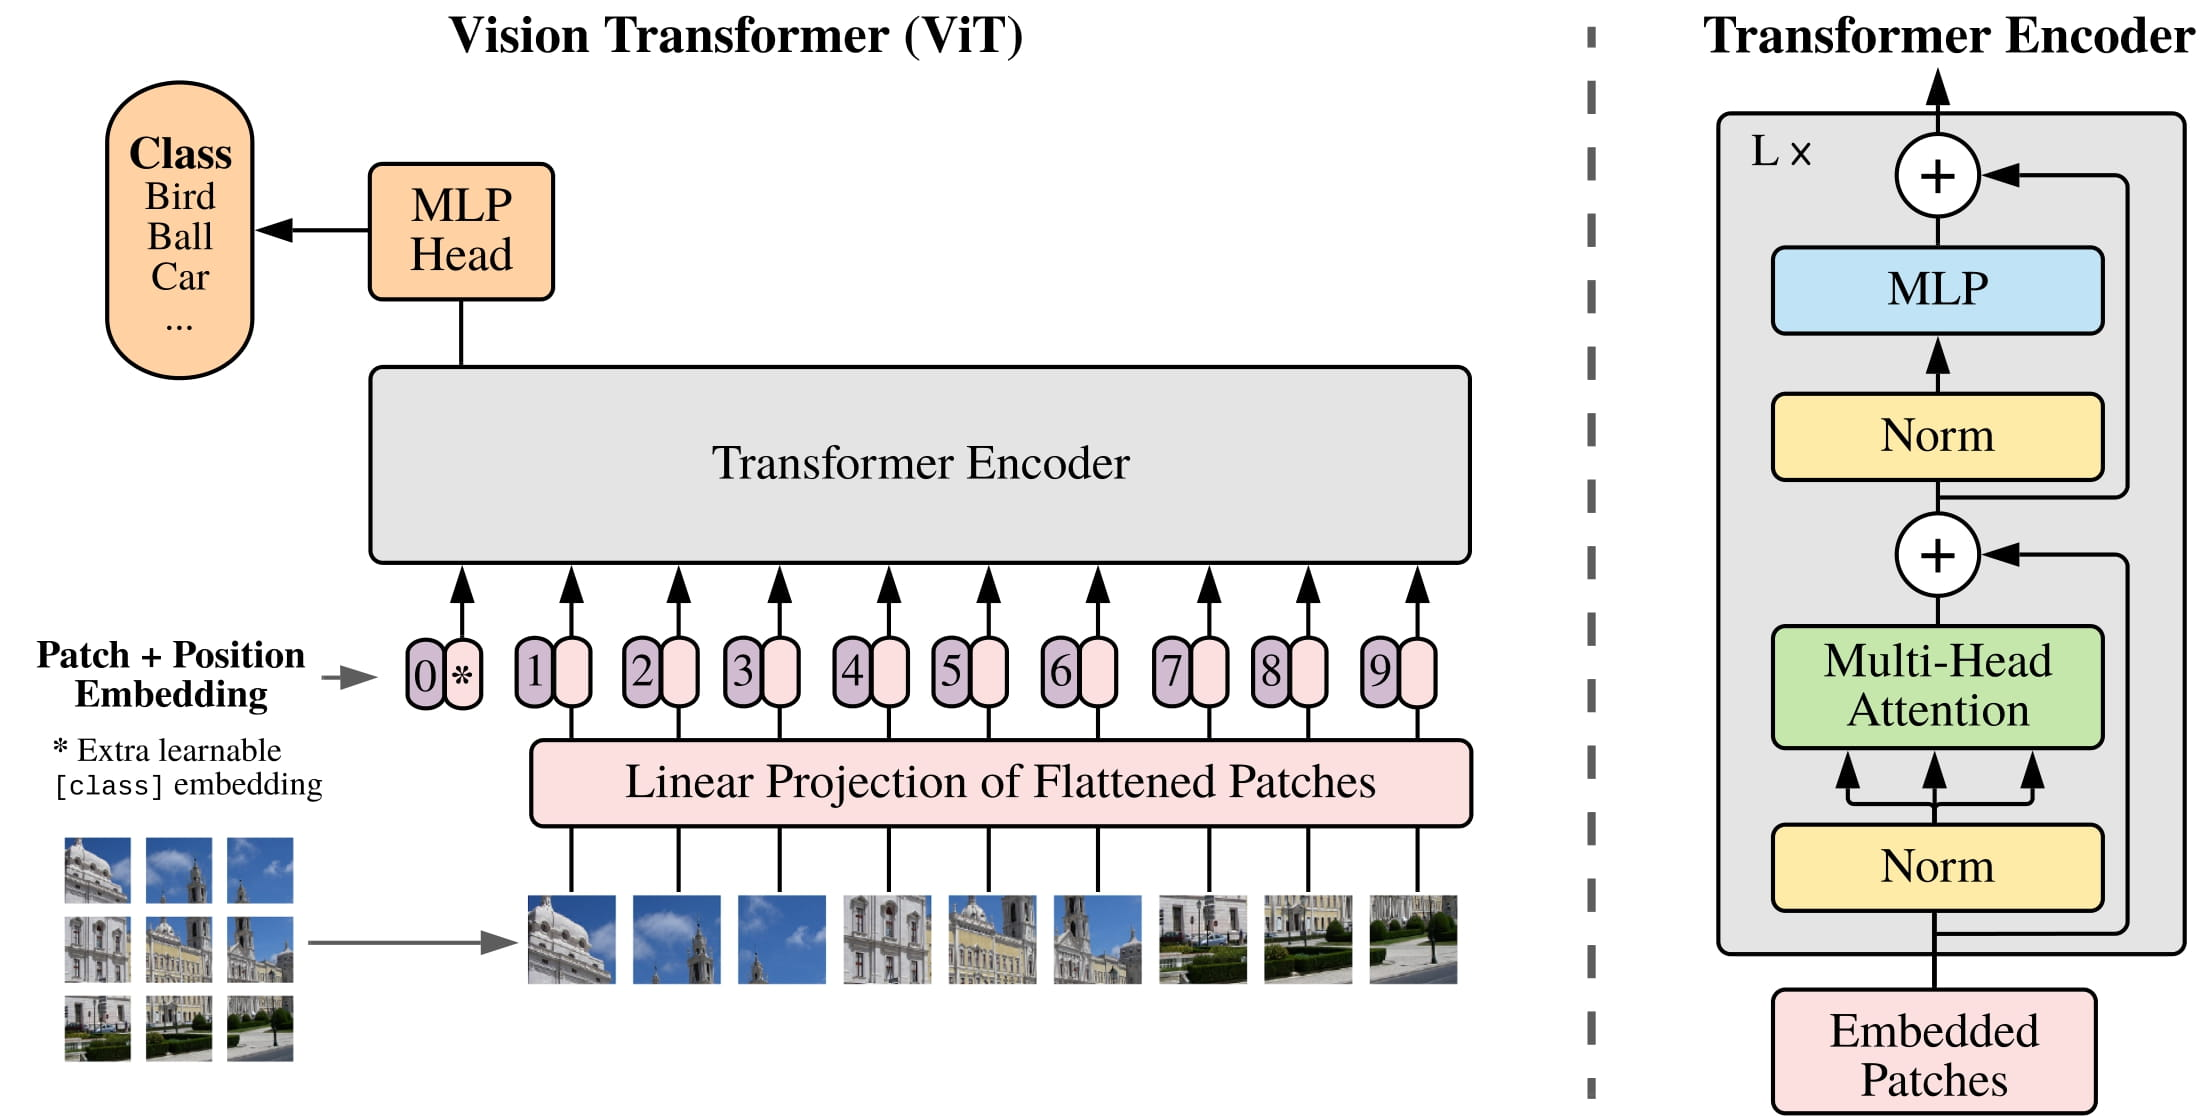
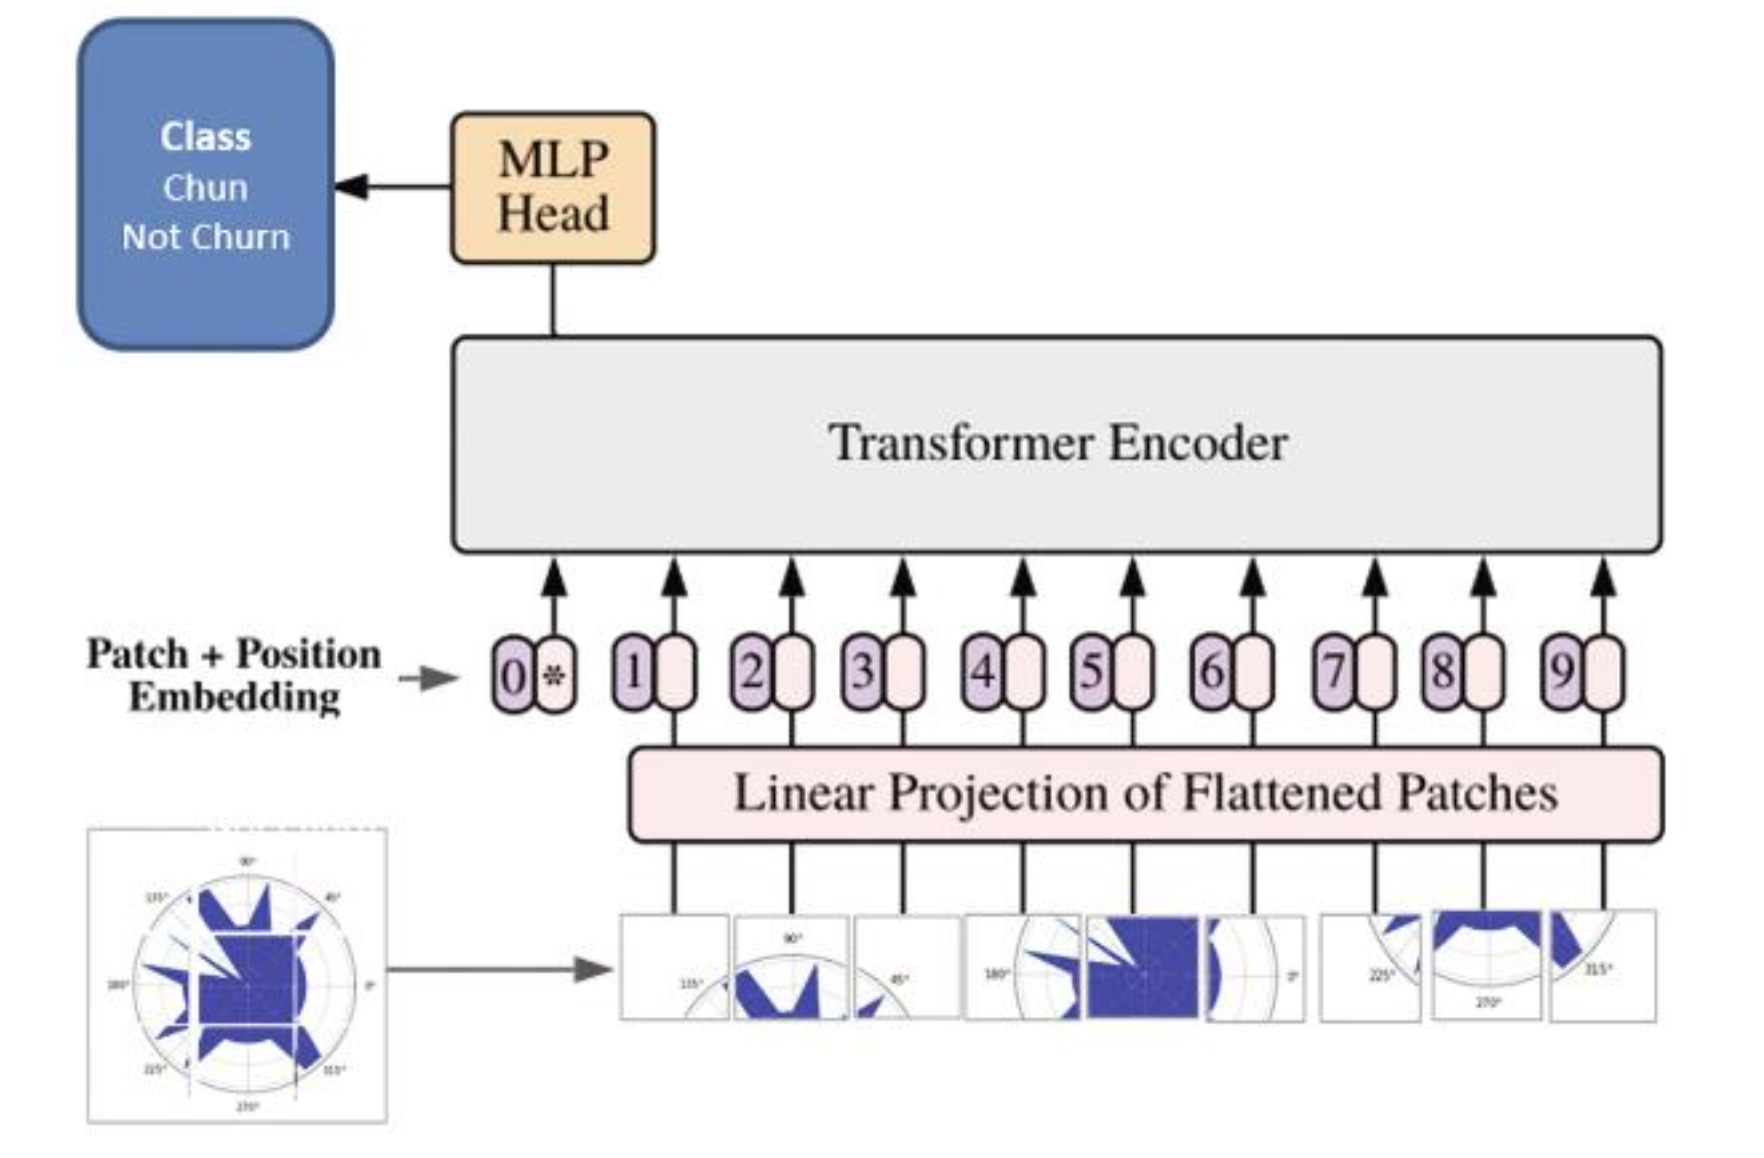
'hydejack'

diff --git a/_site/example/2024-08-01-New-Classification-Method-you-Probably-Haven't-Heard-of/index.html b/_site/example/2024-08-01-New-Classification-Method-you-Probably-Haven't-Heard-of/index.html
@@ -1,7 +1,8 @@
 <p>You’ve probably heard of many classification models for tabular data, from SVMs and logistic regression, to decision tree-based models such as Bagging or Boosting classifiers, to stacking models… This guide will introduce you to many other unconventional approaches, which you’ve probably never heard of, and which may offer new perspectives or lead to unexpected performance gains.</p>
 
-<p>Deep learning trend from Google Trend
-<img src="/assets/img/blog/deeplearningtrend.jpg" alt="drawing" width="500" /></p>
+<p>Deep learning trend from Google Trend</p>
+
+<p><img src="/assets/img/blog/deeplearningtrend.jpg" alt="drawing" width="500" /></p>
 
 <p>The representation of tabular data in image form via radar diagrams is a novelty or another method that remains to be explored and researched. The Vision Transformer <a href="https://huggingface.co/docs/transformers/model_doc/vit">ViT</a> (ViT) is already used for image classification, so the aim is to see whether transforming tabular data into images can add value.</p>
 
@@ -41,6 +42,8 @@
 
 <p>Future research could focus on optimizing image generation techniques (such as bar charts, for example) and exploring hybrid models that combine the strengths of transformers and traditional approaches. See this article about converting tabular data into prompts with LLMs that produce contextual embeddings for each row, enabling it to identify subtle correlations in the data. For churn prediction, these embeddings are then tabulated and integrated into a CatBoost model. <a href="https://www.irjmets.com/uploadedfiles/paper/issue_5_may_2024/57236/final/fin_irjmets1718378031.pdf">LLM for classification of tabular data</a></p>
 
+<p><img src="/assets/img/blog/optionclassification.jpg" alt="drawing" /></p>
+
 <p>Links for reashers focusing on this field:</p>
 
 <p><a href="https://www.nature.com/articles/s41598-021-90923-y">Link1</a></p>
@@ -50,4 +53,6 @@
 <p><a href="https://journals.plos.org/plosone/article?id=10.1371/journal.pone.0295598">Link3</a></p>
 
 <p><a href="https://www.sciencedirect.com/science/article/pii/S0167739X24003510">Link4</a></p>
+
+<p><a href="https://arxiv.org/pdf/2401.15238">Link5</a></p>
 

diff --git a/example/_posts/2024-08-01-New-Classification-Method-you-Probably-Haven't-Heard-of.md b/example/_posts/2024-08-01-New-Classification-Method-you-Probably-Haven't-Heard-of.md
@@ -8,11 +8,12 @@ description: >
 sitemap: false
 ---
 
-## Introduction
+## New Classification Method you Probably Haven't Heard of
 
 You've probably heard of many classification models for tabular data, from SVMs and logistic regression, to decision tree-based models such as Bagging or Boosting classifiers, to stacking models... This guide will introduce you to many other unconventional approaches, which you've probably never heard of, and which may offer new perspectives or lead to unexpected performance gains.
 
 Deep learning trend from Google Trend
+
 <img src="/assets/img/blog/deeplearningtrend.jpg" alt="drawing" width="500"/>
 
 The representation of tabular data in image form via radar diagrams is a novelty or another method that remains to be explored and researched. The Vision Transformer [ViT] (ViT) is already used for image classification, so the aim is to see whether transforming tabular data into images can add value.
@@ -45,6 +46,8 @@ Experimentation with different techniques and rigorous evaluation are always ess
 
 Future research could focus on optimizing image generation techniques (such as bar charts, for example) and exploring hybrid models that combine the strengths of transformers and traditional approaches. See this article about converting tabular data into prompts with LLMs that produce contextual embeddings for each row, enabling it to identify subtle correlations in the data. For churn prediction, these embeddings are then tabulated and integrated into a CatBoost model. [LLM for classification of tabular data]
 
+<img src="/assets/img/blog/optionclassification.jpg" alt="drawing"/>
+
 Links for reashers focusing on this field:
 
 [Link1]
@@ -55,9 +58,12 @@ Links for reashers focusing on this field:
 
 [Link4]
 
+[Link5]
+
 [Link1]: https://www.nature.com/articles/s41598-021-90923-y
 [Link3]: https://journals.plos.org/plosone/article?id=10.1371/journal.pone.0295598
 [Link2]: https://proceedings.neurips.cc/paper_files/paper/2021/file/9d86d83f925f2149e9edb0ac3b49229c-Paper.pdf
 [Link4]: https://www.sciencedirect.com/science/article/pii/S0167739X24003510
+[Link5]: https://arxiv.org/pdf/2401.15238
 [ViT]: https://huggingface.co/docs/transformers/model_doc/vit
 [LLM for classification of tabular data]: https://www.irjmets.com/uploadedfiles/paper/issue_5_may_2024/57236/final/fin_irjmets1718378031.pdf
